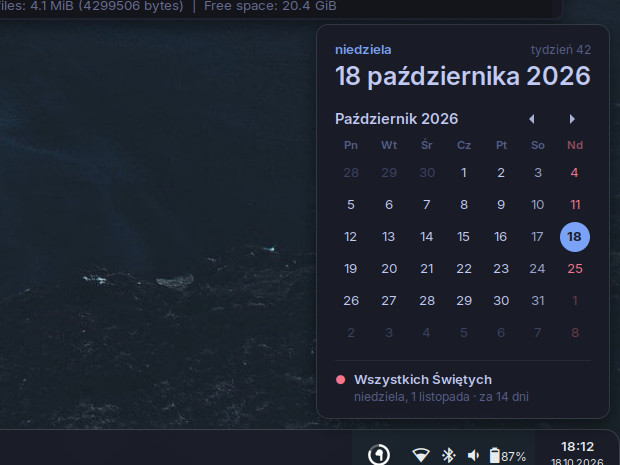
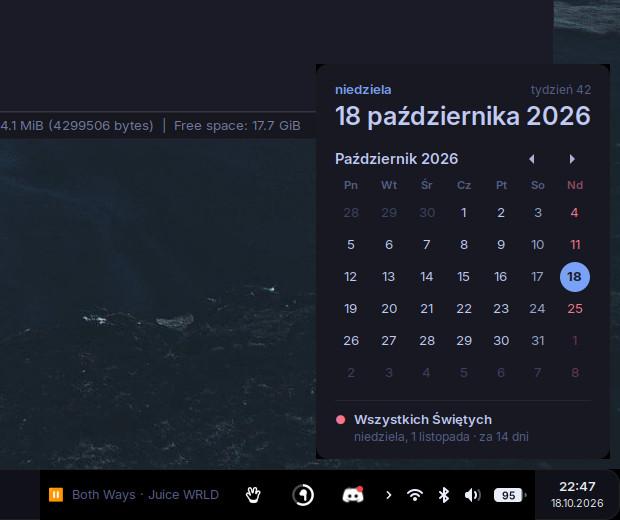
Add a demo GIF of the whole desktop to the README
- Recorded on the real screen: launcher, terminal, Alt+Tab, window overview, quick settings, calendar, cheat sheet, workspaces, lock screen
- Desktop, quick settings and calendar stills come from the same recording

diff --git a/README.md b/README.md
@@ -6,13 +6,13 @@
 rounded windows with animations, a Spotlight-style launcher, quick settings, gestures and a lock
 screen, all in the Tokyo Night palette.
 
-<img src="docs/desktop.jpg" alt="XFCE desktop with fastfetch in the terminal, Thunar and quick settings">
+<img src="docs/demo.gif" alt="Tour: launcher, terminal, Alt+Tab, window overview, quick settings, calendar, workspaces and the lock screen">
 
-| Quick settings | Calendar |
+| Desktop | Quick settings |
 | :---: | :---: |
-| <img src="docs/quick-settings.jpg" alt="Quick settings popup above the status button"> | <img src="docs/calendar.jpg" alt="Calendar popup above the clock"> |
-| **Lock screen** | **Launcher** |
-| <img src="docs/lock.jpg" alt="Lock screen with a live clock and a password field"> | <img src="docs/launcher.jpg" alt="rofi launcher searching for apps"> |
+| <img src="docs/desktop.jpg" alt="XFCE desktop with fastfetch in the terminal, Thunar and quick settings"> | <img src="docs/quick-settings.jpg" alt="Quick settings popup above the status button"> |
+| **Calendar** | **Lock screen** |
+| <img src="docs/calendar.jpg" alt="Calendar popup above the clock"> | <img src="docs/lock.jpg" alt="Lock screen with a live clock and a password field"> |
 
 </div>
 
